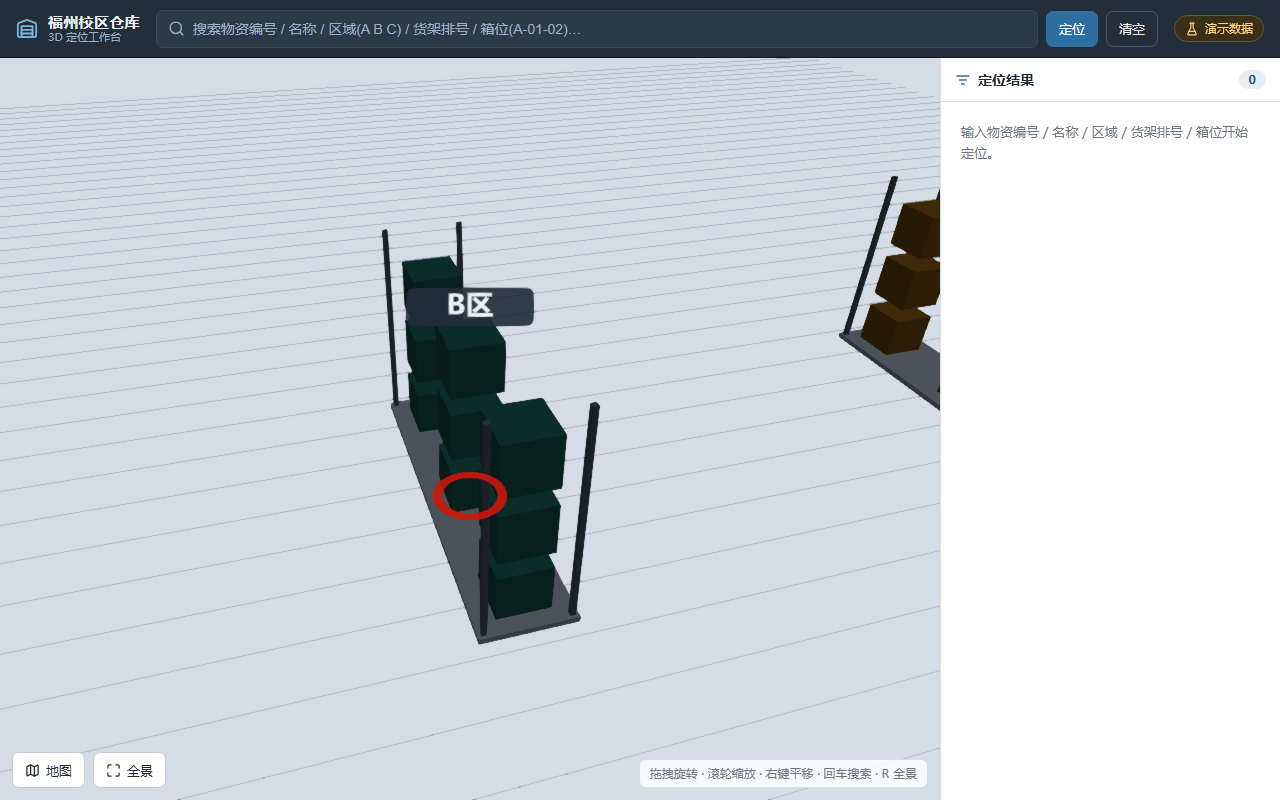
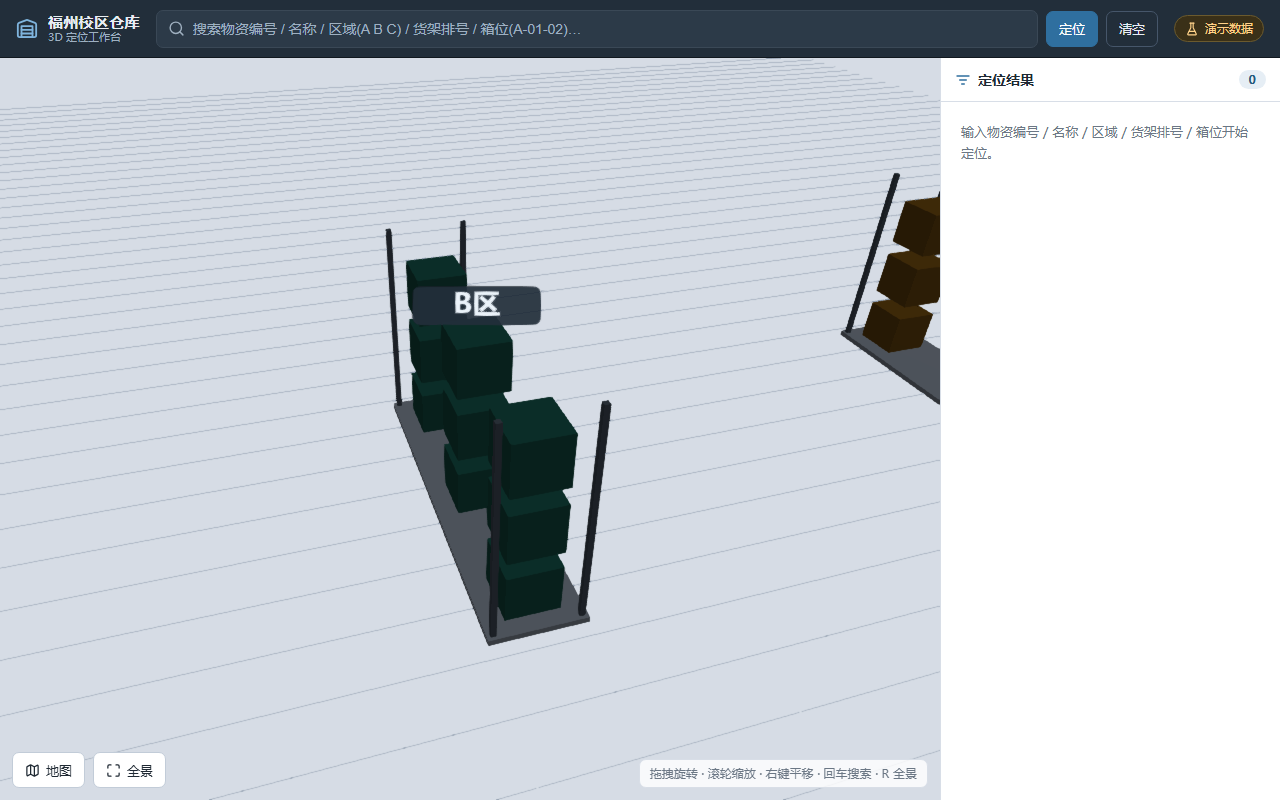
Day 8｜修掉无搜索时空地中央的"裸奔红圈"
改了什么：
- 地面标记环的语义是"目标箱位在这里"，但建好就是可见的、
  复位时也只挪回场景中央而不隐藏 —— 页面一打开空地正中间就杵着
  一个红圈，看着像错误提示。现在三态锁死：初始藏、locate 时显、复位藏。
- 进地图时俯视相机没被重置。在地图里拖动过、或上一段 flyTo 动画
  还在往 view2d.target 写值时，再进地图画面就偏在一边，
  同一个位置点两次落点还不一样。现在 enterMap 会先 stopFly
  再无条件把 view2d.target 设回场景中心。

加了什么：
- verify-mobile-ux.mjs 新增 4 条锁定断言（62 → 66）：
  标记环三态各一条 + 俯视相机对准场景中心一条。

顺手修掉的不稳定断言：
- "点选右侧位置飞到 C 区"偶发失败，根因就是上面那个俯视相机没重置，
  不是判断阈值的问题，已从根上修掉。

diff --git a/3d-warehouse/src/mapview.js b/3d-warehouse/src/mapview.js
@@ -40,8 +40,16 @@ export function enterMap() {
   };
 
   state.topView = true;
-  // 地图以场景中心为目标，缩放到刚好装下 A~C 三个区域
-  view2d.target.copy(new THREE.Vector3(VIEW_CENTER.x, VIEW_CENTER.y, VIEW_CENTER.z));
+
+  // 先把还在跑的相机动画掐掉，再设地图初始视角。
+  // 不掐的话，上一段 flyTo 会继续每帧把 view2d.target 拽向它的终点，
+  // 把我们刚设好的"场景中心"覆盖掉 —— 结果是进地图后画面偏在一边。
+  stopFly();
+
+  // 地图以场景中心为目标，缩放到刚好装下 A~C 三个区域。
+  // 每次都重置：上一次在地图里拖动平移过的话，这里不重置就会"接着上次的位置"，
+  // 用户按 M 进来看到的是半截货架，得自己再拖回去 —— 与"进来先看全貌"的预期不符。
+  view2d.target.set(VIEW_CENTER.x, VIEW_CENTER.y, VIEW_CENTER.z);
   view2d.zoom = MAP_ENTER_ZOOM;
 
   syncUi();
@@ -61,6 +69,9 @@ export function exitMap(fly = true) {
   const saved = state.saved3dView;
   if (saved) {
     if (fly) {
+      // 注意这里用的是 saved.target（3D 视角），而 flyTo 会同时把 view2d.target
+      // 也插值过去。地图退出后 view2d.target 本就没用了，但为了让"下次进地图"
+      // 从一个干净的值出发，这里不依赖它的残留值 —— enterMap 会无条件重置。
       flyTo(saved.target, saved.radius, saved.phi, saved.theta, 700);
     } else {
       // 直接落到目标视角，避免"点一下要等两秒"

diff --git a/3d-warehouse/src/emphasis.js b/3d-warehouse/src/emphasis.js
@@ -64,8 +64,9 @@ export function locate(item) {
   const pos = positionFor(item.zone, item.row, item.level);
   const target = new THREE.Vector3(pos.x, pos.y, pos.z);
 
-  // 地面标记环挪到目标脚下
+  // 地面标记环挪到目标脚下，并让它现身（它的语义就是"目标在这里"）
   state.marker.position.set(pos.x, 0.06, pos.z);
+  state.marker.visible = true;
 
   // 俯视模式下顺手把 2D 缩放拉近一点（至少 1.6），透视模式传 null 表示不动
   const z2 = state.topView ? Math.max(1.6, view2d.zoom) : null;
@@ -91,6 +92,10 @@ export function resetView() {
   // 若惯性还在跑，它会和 flyToOverview 的动画互相覆盖，镜头落不到全景上。
   if (typeof onResetHook === 'function') onResetHook();
 
+  // 复位 = 清掉一切指向某个箱位的标记，所以标记环要**藏起来**，
+  // 而不是像以前那样只挪回场景中央 —— 那样会留下一个没有任何指代的红圈。
+  // 位置仍一起归位，是为了下次 locate() 时它是从中央出发，动画连贯。
+  state.marker.visible = false;
   state.marker.position.set(VIEW_CENTER.x, 0.06, VIEW_CENTER.z);
 
   // 按当前画布比例选全景距离：手机竖屏要站远一点，否则 C 区会被切出画面

diff --git a/3d-warehouse/src/scene.js b/3d-warehouse/src/scene.js
@@ -183,6 +183,12 @@ function buildMarker() {
   marker.rotation.x = -Math.PI / 2;
   marker.position.set(VIEW_CENTER.x, 0.06, VIEW_CENTER.z);
   marker.renderOrder = 5;
+  // 初始就隐藏：这个环的语义是"目标箱位在这里"，没有任何目标时它不该出现。
+  // 之前是建好就 visible，且 resetView() 只把它挪回场景中央而不隐藏 ——
+  // 于是页面一打开空地正中间就杵着一个红圈，看着像个错误提示，
+  // 用户会以为是"哪里坏了"（真机截图反馈确认过）。
+  // 显示时机由 emphasis.js 的 locate()/resetView() 决定。
+  marker.visible = false;
   scene.add(marker);
   state.marker = marker;
 }
